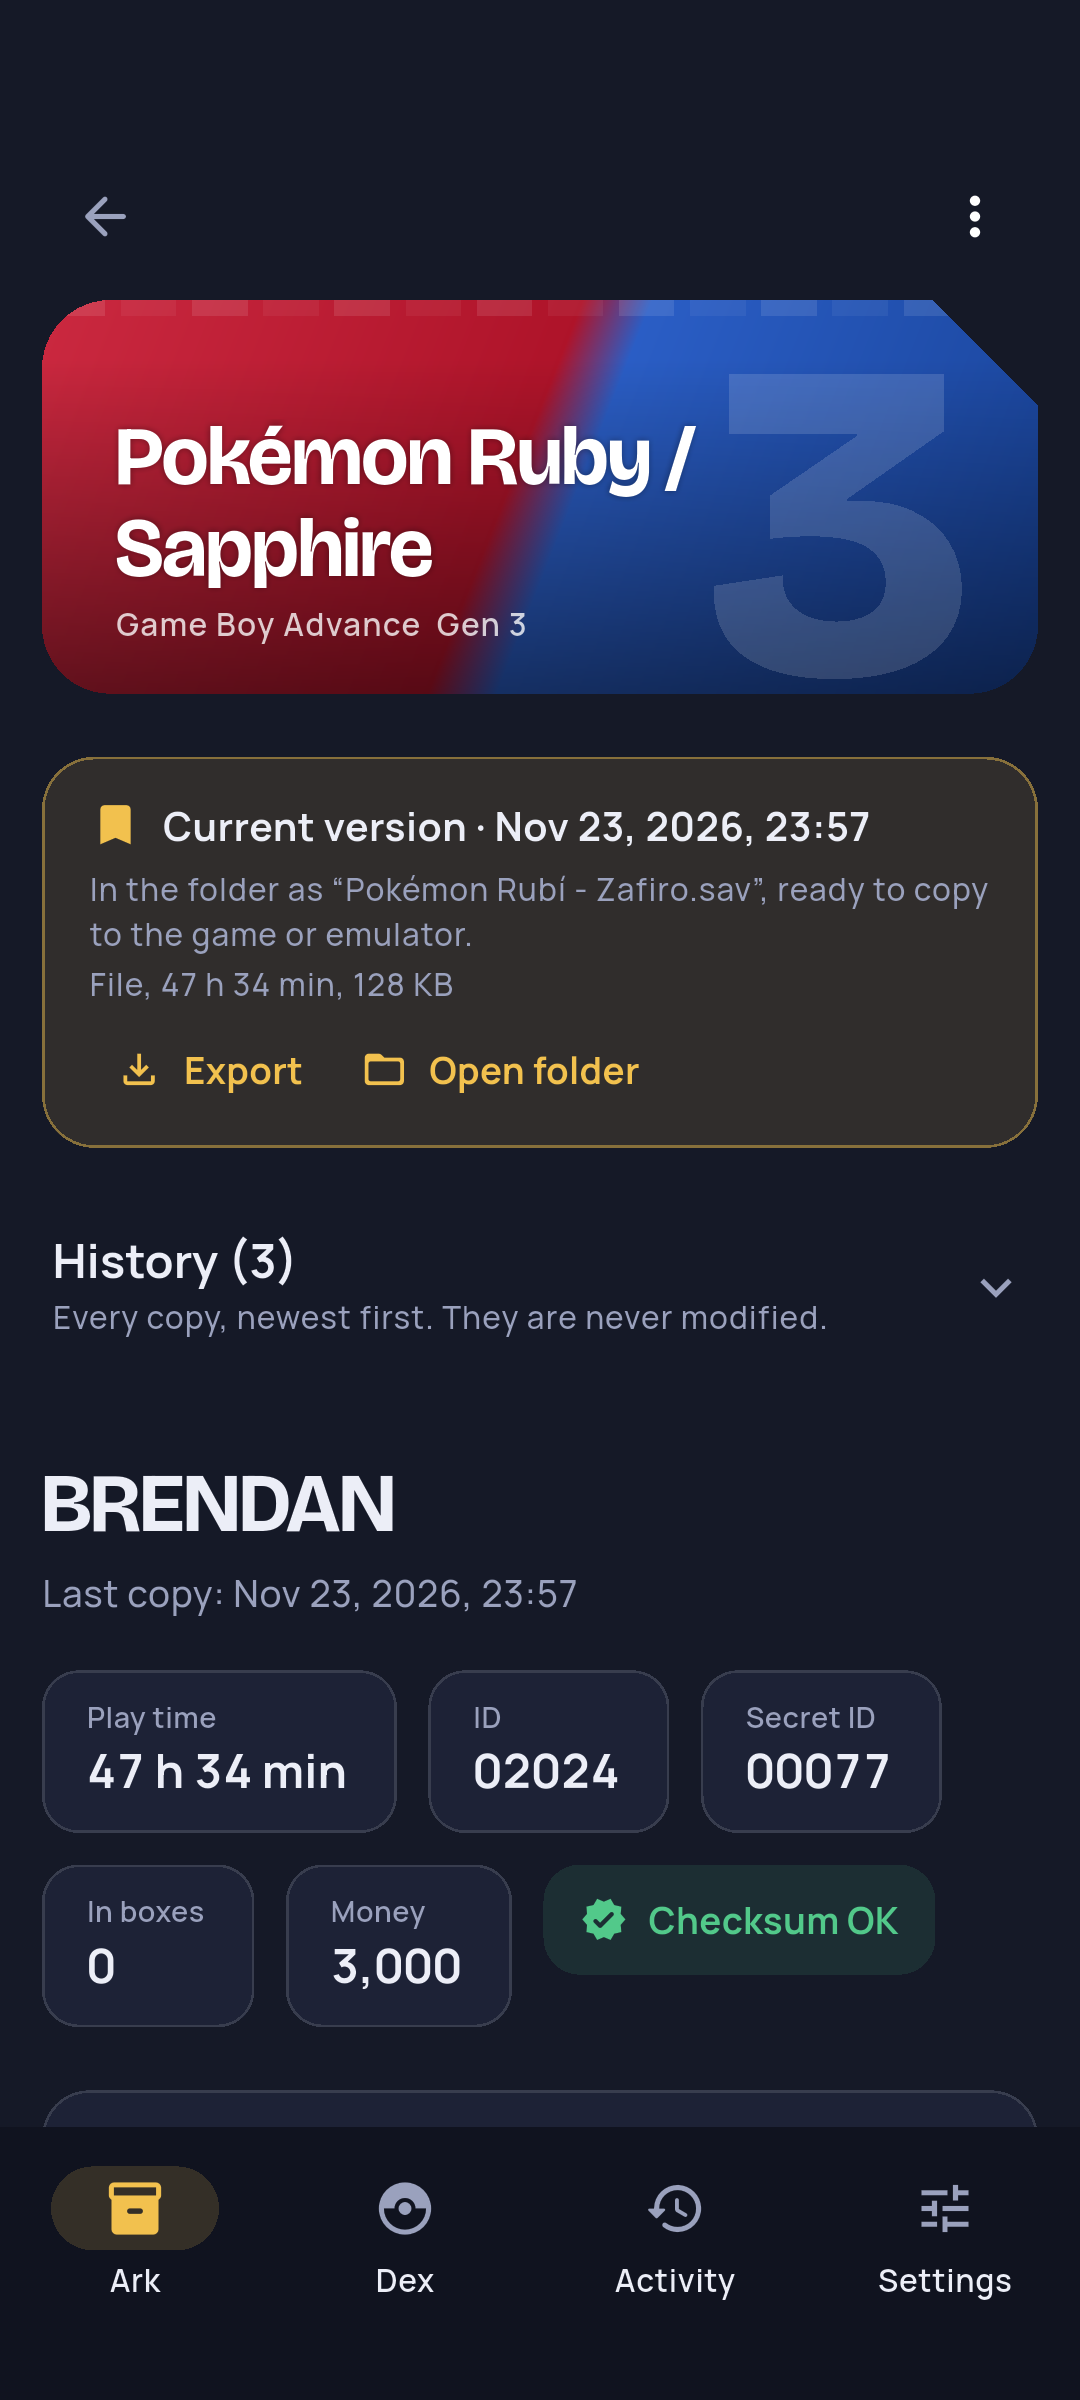
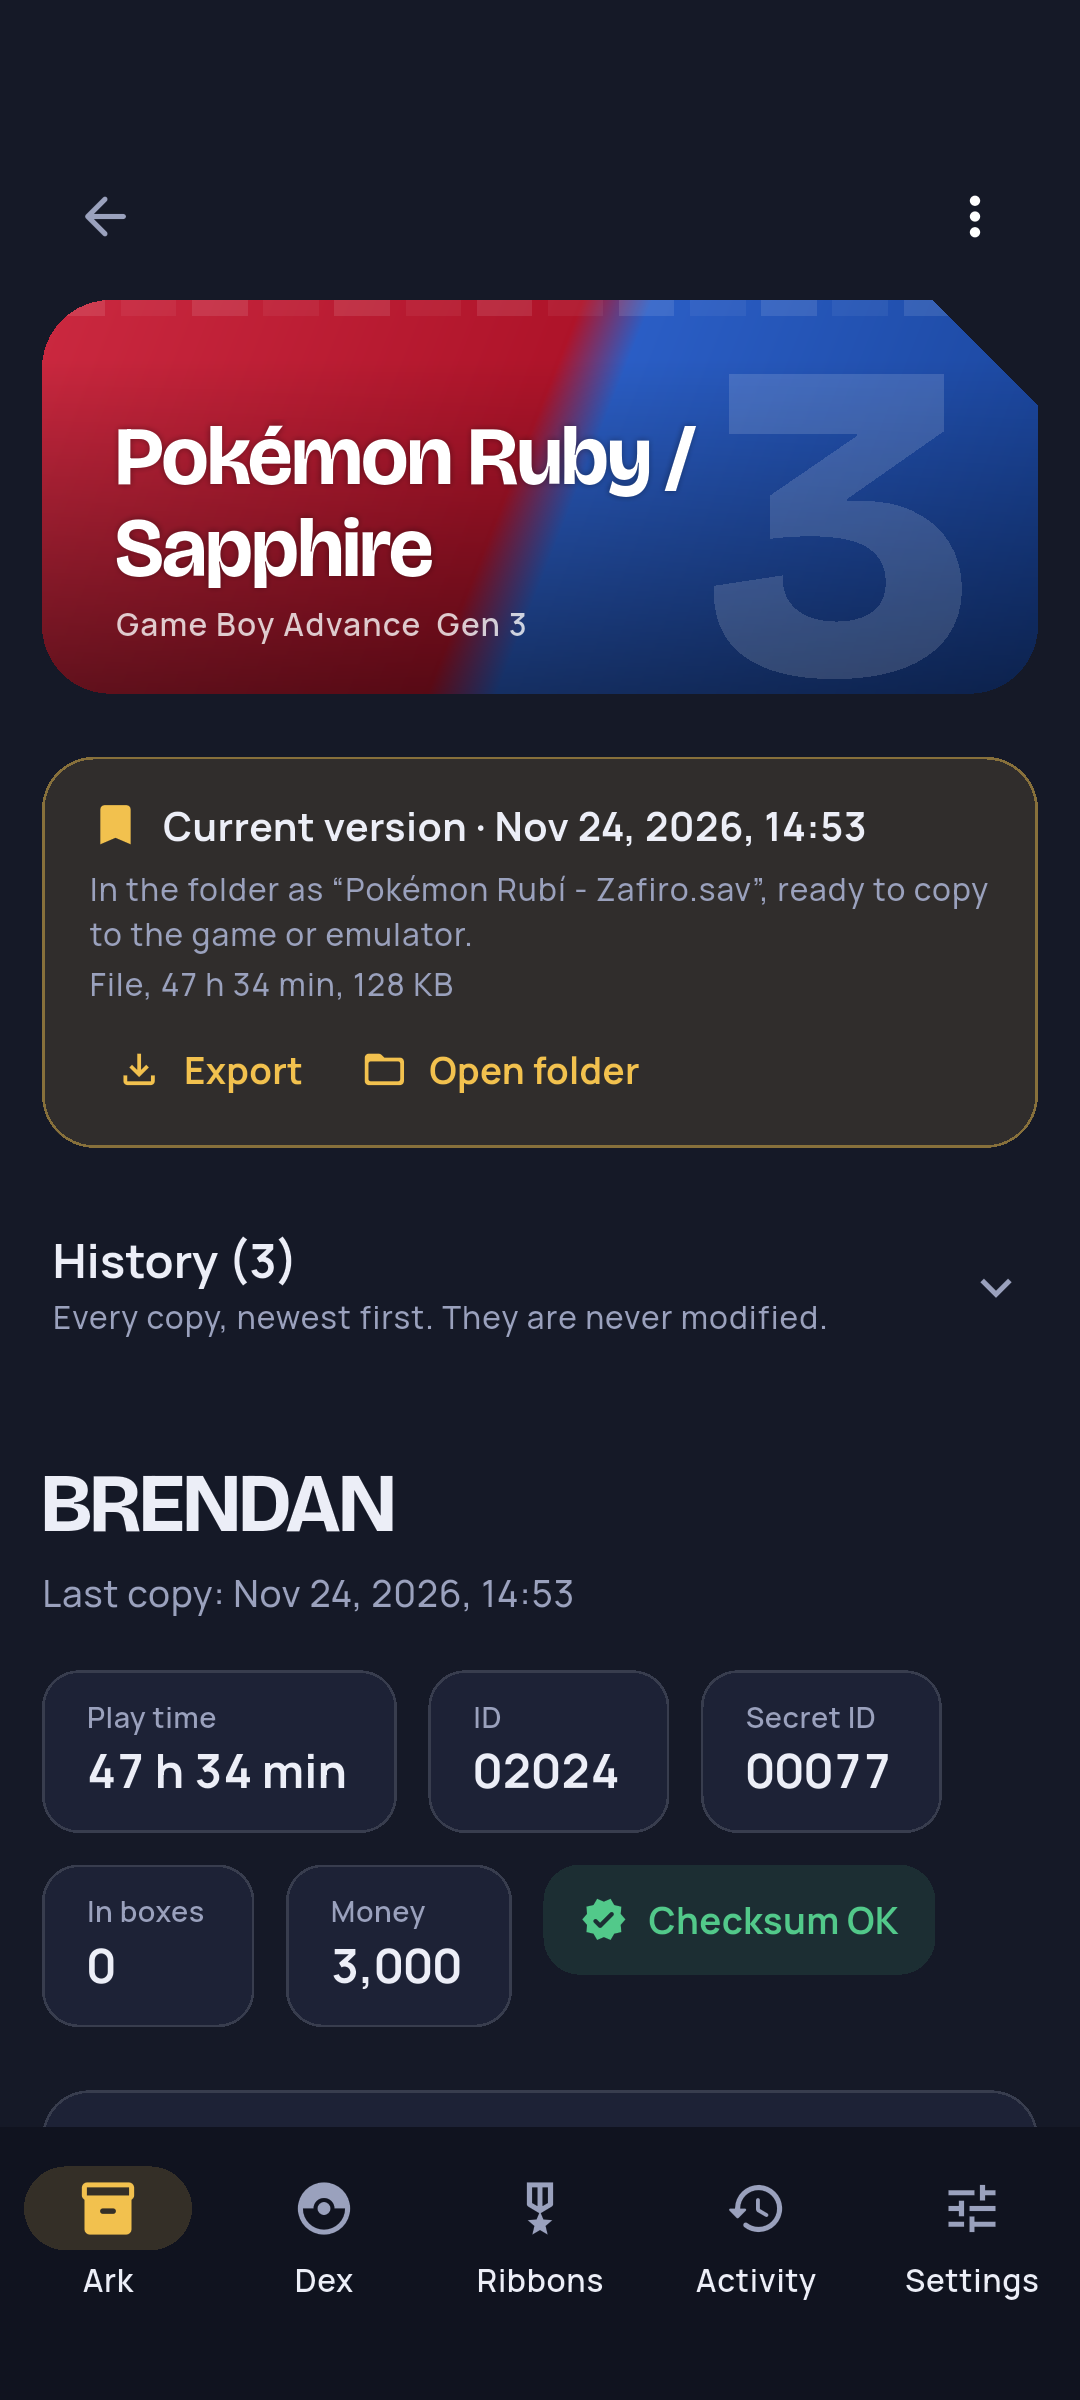
Screenshots: Android emulator with the Ribbon Hunter tab; Colosseum/XD and storage games on Android

diff --git a/apps/pkarktools/integration_test/gamecube_screenshots_test.dart b/apps/pkarktools/integration_test/gamecube_screenshots_test.dart
@@ -1,0 +1,148 @@
+import 'dart:io' as io;
+
+import 'package:drift/drift.dart' show DatabaseConnection;
+import 'package:drift/native.dart';
+import 'package:flutter/material.dart';
+import 'package:flutter_riverpod/flutter_riverpod.dart';
+import 'package:flutter_test/flutter_test.dart';
+import 'package:integration_test/integration_test.dart';
+import 'package:pkcore/pkcore.dart';
+import 'package:pkcore/testing.dart';
+import 'package:pkarktools/app.dart';
+import 'package:pkarktools/data/arca_repository.dart';
+import 'package:pkarktools/data/db/arca_database.dart';
+import 'package:pkarktools/data/folder/arca_folder.dart';
+import 'package:pkarktools/data/folder/memory_folder_fs.dart';
+import 'package:pkarktools/data/sprites/sprite_cache.dart';
+import 'package:pkarktools/providers.dart';
+import 'package:pkarktools/ui/editor/pokemon_editor.dart';
+
+/// Capturas de Colosseum/XD y de los juegos de almacenamiento en un teléfono
+/// (emulador -no-window o simulador headless), con saves sintéticos:
+///
+///   flutter drive -d DISPOSITIVO --driver test_driver/screenshot_driver.dart \
+///     --target integration_test/gamecube_screenshots_test.dart --dart-define=SHOTS=android/gc
+///     [--dart-define=SHOTS_LANG=es]
+const _prefix = String.fromEnvironment('SHOTS', defaultValue: 'gamecube/phone');
+const _lang = String.fromEnvironment('SHOTS_LANG', defaultValue: 'en');
+
+void main() {
+  final binding = IntegrationTestWidgetsFlutterBinding.ensureInitialized();
+
+  testWidgets('capturas de Colosseum/XD y almacenamiento', skip: io.Platform.isMacOS || io.Platform.isWindows || io.Platform.isLinux,
+      (tester) async {
+    final locale = _lang == 'es' ? const Locale('es', 'ES') : const Locale('en', 'US');
+    tester.platformDispatcher.localesTestValue = [locale];
+    tester.platformDispatcher.localeTestValue = locale;
+    await tester.runAsync(() => SpriteCache.instance.downloadAll());
+    final db = ArcaDatabase(DatabaseConnection(NativeDatabase.memory(), closeStreamsSynchronously: true));
+    final repo = ArcaRepository(db, ArcaFolder(MemoryFolderFs(label: 'PKArkTools')));
+
+    final saves = {
+      '01-GXXE-pokemon_xd.gci': SyntheticSaves.gci(SyntheticSaves.xdDemo(), GcTitle.xd),
+      'MemoryCardA.USA.raw': SyntheticSaves.memoryCard([(GcTitle.colosseum, SyntheticSaves.colosseumDemo())]),
+      'Pokemon Stadium 2 (USA).sra': SyntheticSaves.stadium(
+        layout: StadiumLayout.stadium2U,
+        trainer: const SynthTrainer(name: 'GOLD', tid: 2000),
+        boxes: const {0: [SynthMon(157, level: 55), SynthMon(181, level: 50, shiny: true), SynthMon(249, level: 70), SynthMon(248, level: 60)]},
+        boxNames: const ['JOHTO'],
+      ),
+      '01-GPXE-pokemon_box.gci': SyntheticSaves.gci(
+          SyntheticSaves.rsBox(boxes: const {
+            0: [SynthMon(254, level: 50), SynthMon(257, level: 50), SynthMon(260, level: 50), null, SynthMon(384, level: 70, shiny: true)],
+          }, boxNames: const ['HOENN']),
+          GcTitle.rsBox),
+      'PbrSaveData': SyntheticSaves.battleRevolution(
+        owner: 'Lucas',
+        party: const [SynthMon(448, level: 60, nickname: 'Luca'), SynthMon(445, level: 62)],
+        boxes: const {0: [SynthMon(25, level: 30), SynthMon(393, level: 20)]},
+      ),
+      'pokemonranch.bin': SyntheticSaves.ranch(
+          owner: 'Hayley', mons: const [SynthMon(25, level: 10), SynthMon(54, level: 12), SynthMon(133, level: 15)]),
+    };
+    final ids = <String, int>{};
+    for (final e in saves.entries) {
+      final r = await tester.runAsync(() => repo.importBytes(e.value, fileName: e.key, origin: ImportOrigin.file));
+      if (r is ImportAdded) ids[e.key] = r.slotId;
+    }
+    expect(ids.length, saves.length);
+
+    Future<void> settle([int frames = 20]) async {
+      for (var i = 0; i < frames; i++) {
+        await tester.runAsync(() => Future<void>.delayed(const Duration(milliseconds: 15)));
+        await tester.pump(const Duration(milliseconds: 100));
+      }
+    }
+
+    var n = 0;
+    Future<void> shot(String name) async {
+      await tester.runAsync(() => Future<void>.delayed(const Duration(milliseconds: 600)));
+      await settle(8);
+      n++;
+      await binding.takeScreenshot('${_prefix}_${n.toString().padLeft(2, '0')}_$name');
+    }
+
+    Future<void> open(String location) async {
+      await tester.pumpWidget(const SizedBox());
+      await settle(3);
+      await tester.pumpWidget(ProviderScope(
+        key: UniqueKey(),
+        overrides: [arcaRepositoryProvider.overrideWithValue(repo)],
+        child: PKArkToolsApp(initialLocation: location),
+      ));
+      await settle(25);
+    }
+
+    Future<void> reveal(Finder f, {double alignment = 0.1}) async {
+      final editor = find.byType(PokemonEditorScreen);
+      final scope = editor.evaluate().isNotEmpty ? editor : find.byType(Scaffold).last;
+      final list = find.descendant(of: scope, matching: find.byType(Scrollable)).first;
+      await tester.scrollUntilVisible(f, 300, scrollable: list, maxScrolls: 80);
+      await settle(5);
+      await Scrollable.ensureVisible(tester.element(f), alignment: alignment);
+      await settle(10);
+    }
+
+    Future<void> tapMon(String species) async {
+      final mon = find.bySemanticsLabel(RegExp(species)).first;
+      await Scrollable.ensureVisible(tester.element(mon), alignment: 0.5);
+      await settle(8);
+      await tester.tap(mon);
+      await settle(25);
+    }
+
+    if (io.Platform.isAndroid) await binding.convertFlutterSurfaceToImage();
+
+    await open('/arca');
+    await shot('arca');
+    await open('/arca/save/${ids['01-GXXE-pokemon_xd.gci']!}');
+    await shot('xd_save');
+    await tapMon('Vulpix');
+    await reveal(find.byKey(const ValueKey('shadow-state')), alignment: 0.05);
+    await shot('xd_shadow_pokemon');
+    await open('/arca/save/${ids['MemoryCardA.USA.raw']!}');
+    await shot('colosseum_save');
+
+    await open('/cintas/guia/156');
+    final specimen = find.byWidgetPredicate(
+        (w) => w.key is ValueKey<String> && (w.key! as ValueKey<String>).value.startsWith('rm-specimen-'));
+    await reveal(specimen.first, alignment: 0.05);
+    await tester.tap(specimen.first);
+    await settle(15);
+    await shot('ribbon_hunter_purified');
+
+    for (final (file, name) in const [
+      ('Pokemon Stadium 2 (USA).sra', 'stadium2'),
+      ('01-GPXE-pokemon_box.gci', 'box_ruby_sapphire'),
+      ('PbrSaveData', 'battle_revolution'),
+      ('pokemonranch.bin', 'ranch'),
+    ]) {
+      await open('/arca/save/${ids[file]!}');
+      await shot(name);
+    }
+
+    await tester.pumpWidget(const SizedBox());
+    await settle(5);
+    await tester.runAsync(db.close);
+  });
+}

diff --git a/docs/desarrollo.md b/docs/desarrollo.md
@@ -237,6 +237,7 @@ del repo.
 | Actualizar (Android, release real) | `flutter drive -d emulator-5554 --driver test_driver/screenshot_driver.dart --target integration_test/update_test.dart` (simula la 1.0.0 frente al último release de GitHub: descarga el APK, lee las firmas con PackageManager y comprueba que con la clave debug **se bloquea**; luego el camino feliz con un lector de firmas falso). Con `--dart-define=UPDATE_STEP=permission` y sin «Instalar apps desconocidas» captura la explicación del permiso; sin esa define hay que concederlo (`adb -s emulator-5554 shell appops set dev.pkarktools.app REQUEST_INSTALL_PACKAGES allow`) en cuanto se instala | `docs/screenshots/android/v2_47…51_update_*` |
 | Juegos de almacenamiento (offscreen) | `flutter test test/storage_screenshots_test.dart --dart-define=SHOTS_STORAGE=true` — Stadium, Stadium 2, Box, Rancho y Battle Revolution sintéticos | `docs/screenshots/storage/` |
 | Colosseum y XD (offscreen) | `flutter test test/gamecube_screenshots_test.dart --dart-define=SHOTS_GC=true` — saves sintéticos (`.gci` de XD y Memory Card de Colosseum) | `docs/screenshots/gamecube/` |
+| Colosseum/XD y almacenamiento (emulador / simulador) | `flutter drive -d DISPOSITIVO --driver test_driver/screenshot_driver.dart --target integration_test/gamecube_screenshots_test.dart --dart-define=SHOTS=android/gc` — Arca, XD, Pokémon oscuro, Colosseum, el purificado en Ribbon Hunter y Stadium 2, Box, Battle Revolution y el Rancho | `docs/screenshots/android/gc_*` |
 | Dex (offscreen) | `flutter test test/dex_screenshots_test.dart --dart-define=SHOTS_DEX=true` — Dex sintética de `test/dex_demo.dart`, escritorio y teléfono | `docs/screenshots/dex/` |
 | Formas especiales variocolor (offscreen) | `flutter test test/shiny_special_shots_test.dart --dart-define=SHOTS_SHINY=true` — Charizard Gigamax normal y variocolor y Megas X/Y variocolor (`shinySpecialDex` de `test/dex_demo.dart`); solo descarga los iconos que se ven | `docs/screenshots/dex/10_shiny_special_forms.png` |
 | Dex (emulador / simulador) | `flutter drive -d DISPOSITIVO --driver test_driver/screenshot_driver.dart --target integration_test/dex_screenshots_test.dart --dart-define=SHOTS=android/dex` (o `ios/dex`) | `docs/screenshots/{android,ios}/dex_*` |

diff --git a/docs/usuario/importar.md b/docs/usuario/importar.md
@@ -84,6 +84,16 @@ GBA (igual que en el juego).
   <img src="../screenshots/gamecube/04_colosseum_save.png" width="420" alt="Save de Colosseum en una Memory Card">
 </p>
 
+En Android:
+
+<p>
+  <img src="../screenshots/android/gc_01_arca.png" width="180" alt="Android: juegos de GameCube y Wii en el Arca">
+  <img src="../screenshots/android/gc_02_xd_save.png" width="180" alt="Android: save de XD">
+  <img src="../screenshots/android/gc_03_xd_shadow_pokemon.png" width="180" alt="Android: Pokémon oscuro">
+  <img src="../screenshots/android/gc_06_stadium2.png" width="180" alt="Android: Stadium 2">
+  <img src="../screenshots/android/gc_08_battle_revolution.png" width="180" alt="Android: Battle Revolution">
+</p>
+
 ### Nintendo 64: Pokémon Stadium y Stadium 2
 
 El save va en el cartucho. Con un emulador, importa el archivo de save del

diff --git a/docs/usuario/ribbon-hunter.md b/docs/usuario/ribbon-hunter.md
@@ -95,6 +95,11 @@ En Android (emulador):
   vuelven: Stadium 1/2 en los de Game Boy, Box: Rubí y Zafiro en
   Rubí/Zafiro/Esmeralda, y Battle Revolution y el Rancho en
   Diamante/Perla/Platino.
+
+<p>
+  <img src="../screenshots/gamecube/06_ribbon_hunter_purified.png" width="560" alt="Un Quilava purificado de Colosseum con la Cinta Nacional ya contada">
+  <img src="../screenshots/android/gc_05_ribbon_hunter_purified.png" width="180" alt="Android: el purificado en Tus ejemplares">
+</p>
 * **Compartir**: copia la guía como **texto para foros** o guárdala como
   **imagen** (cabecera y ruta).
 
